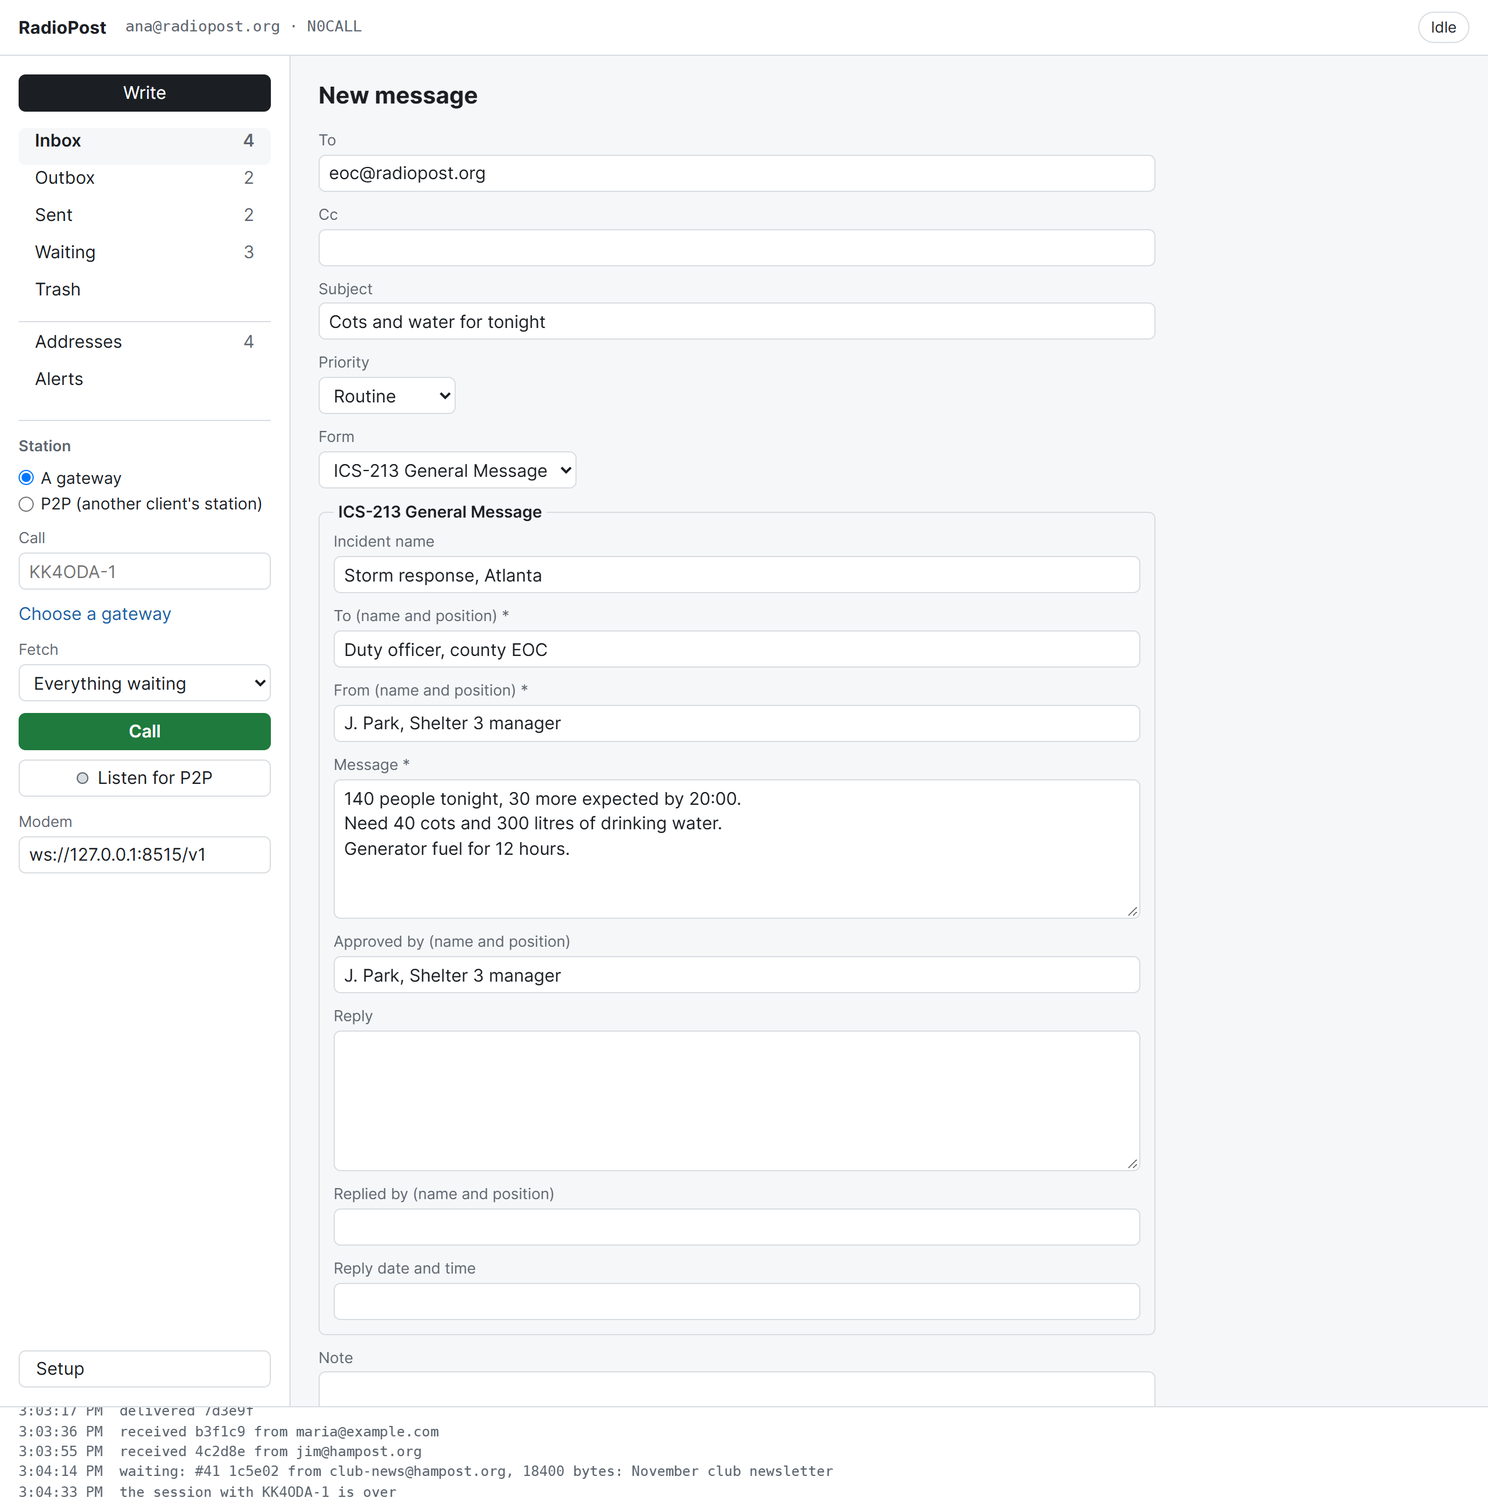
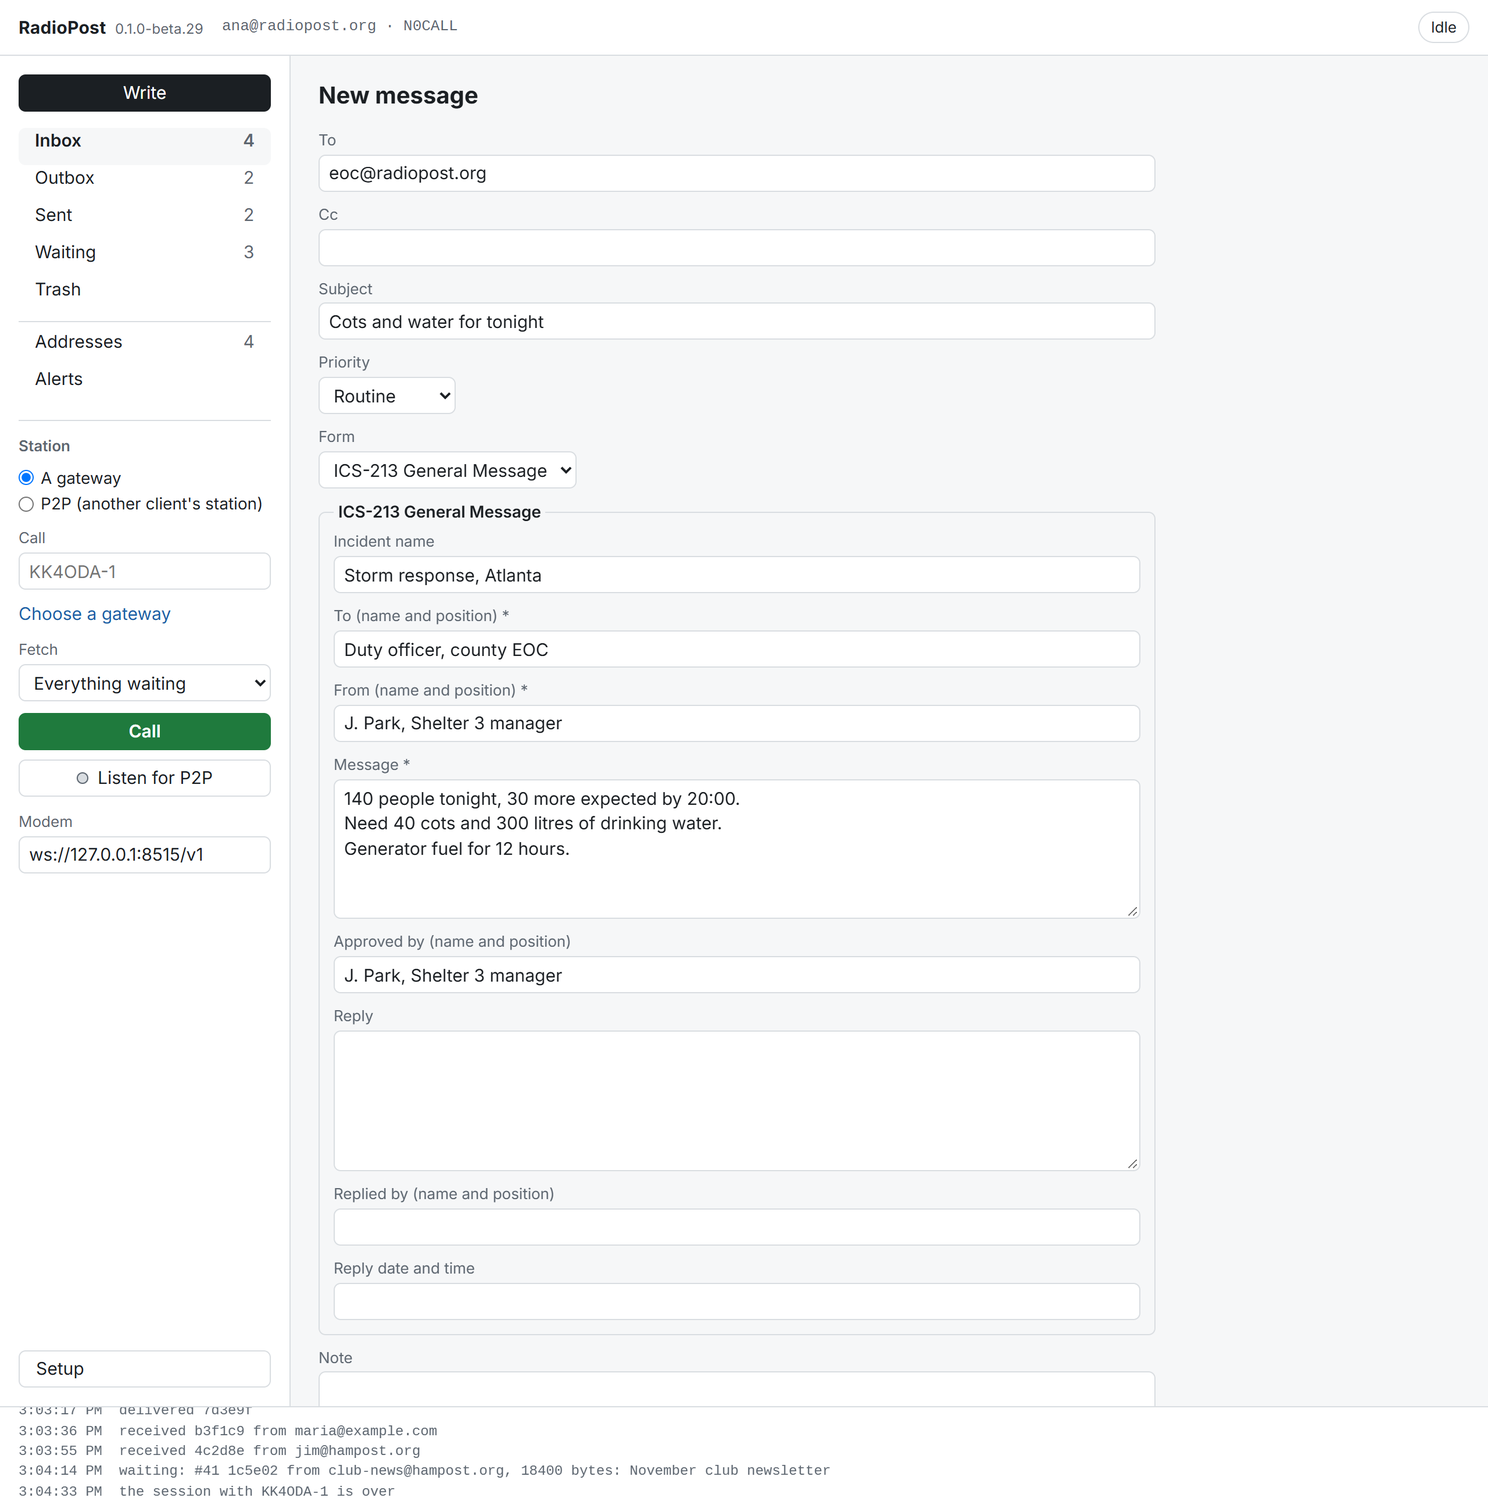
feat: Check for updates, and each window shows its version
A program asked for a newer release when it started and every six hours, so a release that came
out just after the last check was not offered for hours: beta.29 went unseen by a client
running beta.27. Setup now has an Updates box in RadioPost and in RadioPost Gateway, saying the
version running, when the channel was last asked and what it said, and Check for updates asks
now (`POST /api/update/check`). The watch asks on a thread of its own (`Watch::check_now`),
since the client's panel answers one request at a time, and its status says `checking`; a
second press while a check runs starts no other.

Each window also shows its version beside its name at the top: it could be found nowhere in
the client, and only at the foot of the gateway's Setup.

Tested against a channel that offers a newer release after the first check: in the watch, and
through each panel. A check that never starts, or a route that asks nothing, fails them. The
manual (1.23.0) says where the version is and what Check for updates does; the shots that show
the top bar, and the gateway's Setup, are retaken.

diff --git a/app/ui/app.js b/app/ui/app.js
@@ -266,6 +266,22 @@ function showUpdate(u, name) {
     : `Open ${u.offer.page} in your browser`;
 }
 
+// this version, in the header and the Updates card in Setup, and what the channel said when
+// last asked
+function showVersion(u, name) {
+  $("version").textContent = u ? u.current : "";
+  const said = $("updates-state");
+  if (!u) return;
+  const at = u.checked
+    ? new Date(u.checked * 1000).toLocaleString([], {dateStyle: "medium", timeStyle: "short"}) : "";
+  said.textContent = `This is ${name} ${u.current}. ` + (u.checking ? "Checking…"
+    : !u.checked ? "Not checked yet."
+    : u.error ? `Checked ${at}, but the update channel could not be reached: ${u.error}`
+    : u.offer ? `Checked ${at}: ${u.offer.version} is out, at the top of the window.`
+    : `Checked ${at}: this is the newest.`);
+  $("updates-check").disabled = Boolean(u.checking);
+}
+
 // what the station's state says to the ear: a session up or ended, a call failed, a message
 // delivered, mail arrived (checked by its senders' levels)
 let lastCounts = null;
@@ -290,6 +306,7 @@ function soundsOfState(s, a) {
 async function refresh() {
   const s = await api("state");
   showUpdate(s.update, "RadioPost");
+  showVersion(s.update, "RadioPost");
   myVersion = (s.update && s.update.current) || "";
   $("who").textContent = s.me ? `${s.me.address}  ·  ${s.me.operator}` : "No credential yet";
   meAddress = s.me ? s.me.address : "";
@@ -3476,6 +3493,7 @@ function wire() {
     else act("listen", {adapter: adapter()});
   });
   $("update-go").addEventListener("click", () => act("update", {}));
+  $("updates-check").addEventListener("click", () => act("update/check", {}));
   $("make-key").addEventListener("click", () => act("key", {}));
   $("cred-save").addEventListener("click", async () => {
     await act("credential", {hex: $("cred-hex").value});

diff --git a/app/gateway/ui/index.html b/app/gateway/ui/index.html
@@ -11,7 +11,7 @@
 </head>
 <body>
   <header class="top">
-    <div class="brand" title="RadioPost Gateway: users call it by radio, and it carries their mail to their post offices">RadioPost Gateway</div>
+    <div class="brand" title="RadioPost Gateway: users call it by radio, and it carries their mail to their post offices">RadioPost Gateway <span class="version" id="version" title="The version running here. Setup, Updates, asks whether a newer one is out"></span></div>
     <div class="who" id="who" title="The gateway's callsign, and the account it is registered under"></div>
     <div class="state" id="state" data-state="stopped" title="What the gateway is doing">Stopped</div>
     <button class="primary" id="start" title="Answer calls: the gateway claims its callsign at the modem and listens">Start</button>
@@ -234,6 +234,12 @@
         <label title="The post office's API address, https://…/rp/v1; empty to forget it">API address <input name="url" placeholder="https://po.radiopost.org/rp/v1" spellcheck="false"></label>
         <div class="row"><button type="submit">Save</button></div>
       </form>
+
+      <div class="card">
+        <h2 title="RadioPost Gateway asks for a newer release when it starts and every six hours">Updates</h2>
+        <p id="updates-state"></p>
+        <button type="button" id="updates-check" title="Ask now whether a newer release is out: a release can come out just after the last check">Check for updates</button>
+      </div>
 
       <p class="note" id="where"></p>
     </section>

diff --git a/app/ui/index.html b/app/ui/index.html
@@ -14,7 +14,7 @@
 </head>
 <body>
   <header class="top">
-    <div class="brand" title="RadioPost: email by amateur radio">RadioPost</div>
+    <div class="brand" title="RadioPost: email by amateur radio">RadioPost <span class="version" id="version" title="The version running here. Setup, Updates, asks whether a newer one is out"></span></div>
     <div class="who" title="The account and callsign this client speaks for">
       <span id="who"></span>
       <select id="who-pick" class="narrow" aria-label="Callsign" title="The callsign this client works as: the account whose mail it shows and writes, and the callsign it calls and listens as. Change it between sessions" hidden></select>
@@ -662,6 +662,11 @@
           <label title="The post office's domain">Domain <input id="t-domain" placeholder="hampost.org" spellcheck="false"></label>
           <label title="Its key, 32 bytes in hex, as its DNS records publish it">Key (hex) <input id="t-key" spellcheck="false"></label>
           <button id="t-save" title="Trust this key: the operator decides (RP-1 §7.3)">Trust</button>
+        </div>
+        <div class="card">
+          <h2 title="RadioPost asks for a newer release when it starts and every six hours">Updates</h2>
+          <p id="updates-state"></p>
+          <button id="updates-check" title="Ask now whether a newer release is out: a release can come out just after the last check">Check for updates</button>
         </div>
       </section>
     </main>

diff --git a/app/gateway/ui/app.js b/app/gateway/ui/app.js
@@ -89,9 +89,25 @@ function showUpdate(u, name) {
     : `Open ${u.offer.page} in your browser`;
 }
 
+// this version, in the header and the Updates card in Setup, and what the channel said when
+// last asked
+function showVersion(u, name) {
+  $("version").textContent = u ? u.current : "";
+  const said = $("updates-state");
+  if (!u) return;
+  const at = u.checked ? when(u.checked) : "";
+  said.textContent = `This is ${name} ${u.current}. ` + (u.checking ? "Checking…"
+    : !u.checked ? "Not checked yet."
+    : u.error ? `Checked ${at}, but the update channel could not be reached: ${u.error}`
+    : u.offer ? `Checked ${at}: ${u.offer.version} is out, at the top of the window.`
+    : `Checked ${at}: this is the newest.`);
+  $("updates-check").disabled = Boolean(u.checking);
+}
+
 function render(s) {
   state = s;
   showUpdate(s.update, "RadioPost Gateway");
+  showVersion(s.update, "RadioPost Gateway");
   const settings = s.settings;
   const st = s.status;
   const answering = s.running;
@@ -593,6 +609,7 @@ $("stop").addEventListener("click", async () => {
   await act("stop", {}, render);
   $("stop").disabled = false;
 });
+$("updates-check").addEventListener("click", () => act("update/check", {}, render));
 $("update-go").addEventListener("click", () => {
   if (state && state.update.can_install && state.running
       && !window.confirm("The gateway stops answering while it updates, and starts again after. Update now?")) {

diff --git a/app/ui/style.css b/app/ui/style.css
@@ -64,6 +64,7 @@ h3 { font-size: 12px; color: var(--muted); margin: 14px 0 6px; font-weight: 600;
 .top { display: flex; align-items: center; gap: 16px; padding: 10px 16px; background: var(--panel);
        border-bottom: 1px solid var(--line); }
 .brand { font-weight: 700; letter-spacing: .01em; }
+.brand .version { font-weight: 400; font-size: 12px; color: var(--muted); margin-left: 4px; }
 .who { color: var(--muted); flex: 1; font-family: var(--mono); font-size: 13px; min-width: 0; }
 .who select { font-size: 13px; max-width: 100%; color: var(--text); }
 .state { font-size: 13px; padding: 3px 10px; border-radius: 999px; border: 1px solid var(--line); }

diff --git a/app/gateway/ui/style.css b/app/gateway/ui/style.css
@@ -54,6 +54,7 @@ button.danger { color: var(--bad); }
 .top { display: flex; align-items: center; gap: 12px; padding: 10px 16px; background: var(--panel);
        border-bottom: 1px solid var(--line); flex-wrap: wrap; }
 .brand { font-weight: 700; letter-spacing: .01em; }
+.brand .version { font-weight: 400; font-size: 12px; color: var(--muted); margin-left: 4px; }
 .who { color: var(--muted); flex: 1; font-family: var(--mono); font-size: 13px; min-width: 0;
        overflow: hidden; text-overflow: ellipsis; white-space: nowrap; }
 .state { font-size: 13px; padding: 3px 10px; border-radius: 999px; border: 1px solid var(--line);

diff --git a/core/update/src/lib.rs b/core/update/src/lib.rs
@@ -11,7 +11,8 @@
 //! The desktop applications install their update with Tauri's updater, from the same manifests
 //! and the same key; [`install_tools`] replaces the command-line programs from the signed tools
 //! archive. [`Watch`] keeps what a program's panel shows: the offer, checked when the program
-//! starts and every six hours, and an install under way.
+//! starts, every six hours and when the user asks (**Check for updates**), and an install under
+//! way.
 
 use std::collections::BTreeMap;
 use std::io::{Cursor, Read};
@@ -405,6 +406,7 @@ pub type Install = Arc<dyn Fn() -> Result<(), String> + Send + Sync>;
 struct Seen {
     offer: Option<Offer>,
     checked: u64,
+    checking: bool,
     error: Option<String>,
     installing: bool,
     failed: Option<String>,
@@ -445,8 +447,10 @@ impl Watch {
 
     /// Asks the channel now.
     pub fn check(&self) {
+        self.seen().checking = true;
         let result = check(&self.channel, self.product, &self.current);
         let mut s = self.seen();
+        s.checking = false;
         s.checked = now();
         match result {
             Ok(offer) => {
@@ -455,6 +459,22 @@ impl Watch {
             }
             Err(e) => s.error = Some(e),
         }
+    }
+
+    /// Asks the channel now on a thread of its own, unless it is being asked already: a panel's
+    /// **Check for updates**, which must not wait on the network (a release can come out just
+    /// after the last check, and the next is six hours away). Whether a check started.
+    pub fn check_now(self: &Arc<Self>) -> bool {
+        {
+            let mut s = self.seen();
+            if s.checking {
+                return false;
+            }
+            s.checking = true;
+        }
+        let me = Arc::clone(self);
+        std::thread::spawn(move || me.check());
+        true
     }
 
     /// Asks the channel now and every six hours, on a thread of its own.
@@ -480,7 +500,8 @@ impl Watch {
     }
 
     /// What the panel shows: this version, the offer, when the channel was last asked and what
-    /// went wrong, whether this program can install the update itself, and an install under way.
+    /// went wrong, whether it is being asked now, whether this program can install the update
+    /// itself, and an install under way.
     #[must_use]
     pub fn status(&self) -> Value {
         let s = self.seen();
@@ -496,6 +517,7 @@ impl Watch {
                 "version": o.version, "notes": o.notes, "page": o.page,
             })),
             "checked": s.checked,
+            "checking": s.checking,
             "error": s.error,
             "can_install": can_install,
             "installing": s.installing,

diff --git a/core/update/tests/update.rs b/core/update/tests/update.rs
@@ -270,3 +270,51 @@ fn a_watch_shows_the_offer_and_installs_through_the_application() {
     assert_eq!(up_to_date.status()["offer"], serde_json::Value::Null);
     assert!(up_to_date.install().is_err(), "nothing on offer");
 }
+
+/// A release out since the last check is found when the user asks, without waiting six hours;
+/// the check runs on a thread of its own, says it is checking, and a second ask while it runs
+/// starts no other. A channel that answers only when the test lets it.
+#[test]
+fn a_release_out_since_the_last_check_is_found_when_asked() {
+    use std::sync::Mutex;
+    use std::sync::mpsc;
+    use std::time::{Duration, Instant};
+    let server = tiny_http::Server::http("127.0.0.1:0").expect("a port");
+    let base = format!(
+        "http://{}",
+        server.server_addr().to_ip().expect("an address")
+    );
+    let offered = Arc::new(Mutex::new("0.1.0-beta.27".to_owned()));
+    let (answer, gate) = mpsc::channel::<()>();
+    let version = Arc::clone(&offered);
+    thread::spawn(move || {
+        for request in server.incoming_requests() {
+            gate.recv_timeout(Duration::from_secs(10))
+                .expect("let through");
+            let v = version.lock().expect("lock").clone();
+            let manifest = json!({"version": v, "notes": "",
+                "platforms": {platform(): {"url": "http://x/y", "signature": "z"}}});
+            let _ = request.respond(tiny_http::Response::from_string(manifest.to_string()));
+        }
+    });
+    let watch = Watch::new(Product::Client, "0.1.0-beta.27", &base);
+    answer.send(()).expect("sent");
+    watch.check();
+    assert_eq!(watch.status()["offer"], serde_json::Value::Null);
+    let first = watch.status()["checked"].as_u64().expect("checked");
+
+    // beta.29 comes out; the user asks
+    *offered.lock().expect("lock") = "0.1.0-beta.29".to_owned();
+    assert!(watch.check_now(), "a check started");
+    assert_eq!(watch.status()["checking"], true);
+    assert!(!watch.check_now(), "a second ask starts no other");
+    answer.send(()).expect("sent");
+    let until = Instant::now() + Duration::from_secs(5);
+    while watch.status()["checking"] == true {
+        assert!(Instant::now() < until, "still checking");
+        thread::sleep(Duration::from_millis(20));
+    }
+    let status = watch.status();
+    assert_eq!(status["offer"]["version"], "0.1.0-beta.29", "{status}");
+    assert!(status["checked"].as_u64() >= Some(first));
+}

diff --git a/app/client/tests/panel.rs b/app/client/tests/panel.rs
@@ -1561,3 +1561,49 @@ fn the_panel_says_a_newer_release_is_out_and_installs_it() {
         .expect("the application's installer ran");
     let _ = std::fs::remove_dir_all(&dir);
 }
+
+/// A release out since the client last asked is found when the user presses Check for updates:
+/// the channel is asked on a thread of its own (this panel answers one request at a time), and
+/// the offer shows at the next look, without waiting six hours.
+#[test]
+fn check_for_updates_finds_a_release_out_since_the_last_check() {
+    use radiopost_update::{Product, Watch};
+    use std::sync::{Arc, Mutex};
+    let server = tiny_http::Server::http("127.0.0.1:0").expect("a port");
+    let base = format!(
+        "http://{}",
+        server.server_addr().to_ip().expect("an address")
+    );
+    let offered = Arc::new(Mutex::new("0.1.0-beta.27".to_owned()));
+    let version = Arc::clone(&offered);
+    thread::spawn(move || {
+        for request in server.incoming_requests() {
+            let v = version.lock().expect("lock").clone();
+            let manifest = json!({"version": v, "notes": "",
+                "platforms": {radiopost_update::platform(): {"url": "http://x/y", "signature": "s"}}});
+            let _ = request.respond(tiny_http::Response::from_string(manifest.to_string()));
+        }
+    });
+    let dir = scratch("panel-update-check");
+    store_for(&dir.join("facundo"), "device:facundo", "facundo");
+    let watch = Watch::new(Product::Client, "0.1.0-beta.27", &base);
+    watch.check();
+    let c = Client {
+        at: Panel::new(&dir.join("facundo"), None)
+            .with_updates(Arc::clone(&watch))
+            .start("127.0.0.1:0")
+            .expect("a port"),
+    };
+    assert_eq!(c.get("/api/state")["update"]["offer"], Value::Null);
+    *offered.lock().expect("lock") = "0.1.0-beta.29".to_owned();
+    c.post("/api/update/check", &json!({})).expect("asked");
+    let deadline = Instant::now() + Duration::from_secs(5);
+    while c.get("/api/state")["update"]["offer"]["version"] != "0.1.0-beta.29" {
+        assert!(
+            Instant::now() < deadline,
+            "the new release is never offered"
+        );
+        thread::sleep(Duration::from_millis(20));
+    }
+    let _ = std::fs::remove_dir_all(&dir);
+}

diff --git a/core/gateway/tests/panel.rs b/core/gateway/tests/panel.rs
@@ -574,3 +574,44 @@ fn the_panel_says_a_newer_release_is_out_and_installs_it() {
     }
     let _ = std::fs::remove_dir_all(&dir);
 }
+
+/// A release out since the gateway last asked is found when the operator presses Check for
+/// updates, without waiting six hours.
+#[test]
+fn check_for_updates_finds_a_release_out_since_the_last_check() {
+    use radiopost_update::{Product, Watch};
+    use std::sync::Mutex;
+    let server = tiny_http::Server::http("127.0.0.1:0").expect("a port");
+    let base = format!(
+        "http://{}",
+        server.server_addr().to_ip().expect("an address")
+    );
+    let offered = Arc::new(Mutex::new("0.1.0-beta.27".to_owned()));
+    let version = Arc::clone(&offered);
+    std::thread::spawn(move || {
+        for request in server.incoming_requests() {
+            let v = version.lock().expect("lock").clone();
+            let manifest = json!({"version": v, "notes": "",
+                "platforms": {radiopost_update::platform(): {"url": "http://x/y", "signature": "s"}}});
+            let _ = request.respond(tiny_http::Response::from_string(manifest.to_string()));
+        }
+    });
+    let dir = scratch("panel-update-check");
+    let watch = Watch::new(Product::Gateway, "0.1.0-beta.27", &base);
+    watch.check();
+    let page = Page {
+        at: Panel::new(Arc::new(Runner::new(&dir.join("gateway"))), None)
+            .with_updates(Arc::clone(&watch))
+            .start("127.0.0.1:0")
+            .expect("a port"),
+    };
+    assert_eq!(page.get("/api/state")["update"]["offer"], Value::Null);
+    *offered.lock().expect("lock") = "0.1.0-beta.29".to_owned();
+    page.post("/api/update/check", &json!({})).expect("asked");
+    let until = Instant::now() + Duration::from_secs(5);
+    while page.get("/api/state")["update"]["offer"]["version"] != "0.1.0-beta.29" {
+        assert!(Instant::now() < until, "the new release is never offered");
+        std::thread::sleep(Duration::from_millis(20));
+    }
+    let _ = std::fs::remove_dir_all(&dir);
+}

diff --git a/core/gateway/src/panel.rs b/core/gateway/src/panel.rs
@@ -369,16 +369,23 @@ impl Panel {
                 self.runner.check()?;
                 Ok(self.state())
             }
-            (Method::Post, "/api/update") => {
-                if self.updates.status()["can_install"] == true {
-                    self.updates.install()?;
-                } else {
-                    self.updates.download()?;
-                }
-                Ok(self.state())
-            }
+            (Method::Post, "/api/update" | "/api/update/check") => self.update(path),
             _ => Err(format!("no {method} {path}")),
         }
+    }
+
+    /// `/api/update/check` asks the channel now, on a thread of its own; `/api/update` installs
+    /// the update on offer through the desktop application, or opens its page for a download by
+    /// hand.
+    fn update(&self, path: &str) -> Result<Value, String> {
+        if path == "/api/update/check" {
+            self.updates.check_now();
+        } else if self.updates.status()["can_install"] == true {
+            self.updates.install()?;
+        } else {
+            self.updates.download()?;
+        }
+        Ok(self.state())
     }
 
     /// The gateway made, or its settings changed.

diff --git a/app/client/src/panel.rs b/app/client/src/panel.rs
@@ -844,6 +844,11 @@ impl Panel {
                 Ok(json!({"opened": crate::terminal::open(target)?}))
             }
             (Method::Post, "/api/update") => self.update(),
+            (Method::Post, "/api/update/check") => {
+                // on a thread of its own: this panel answers one request at a time
+                self.updates.check_now();
+                self.state()
+            }
             (Method::Get, "/api/alerts") => Ok(self.alerts.json()),
             (Method::Post, "/api/alerts") => self.alert_request(body),
             (Method::Post, "/api/circles") => self.circle_request(body),
